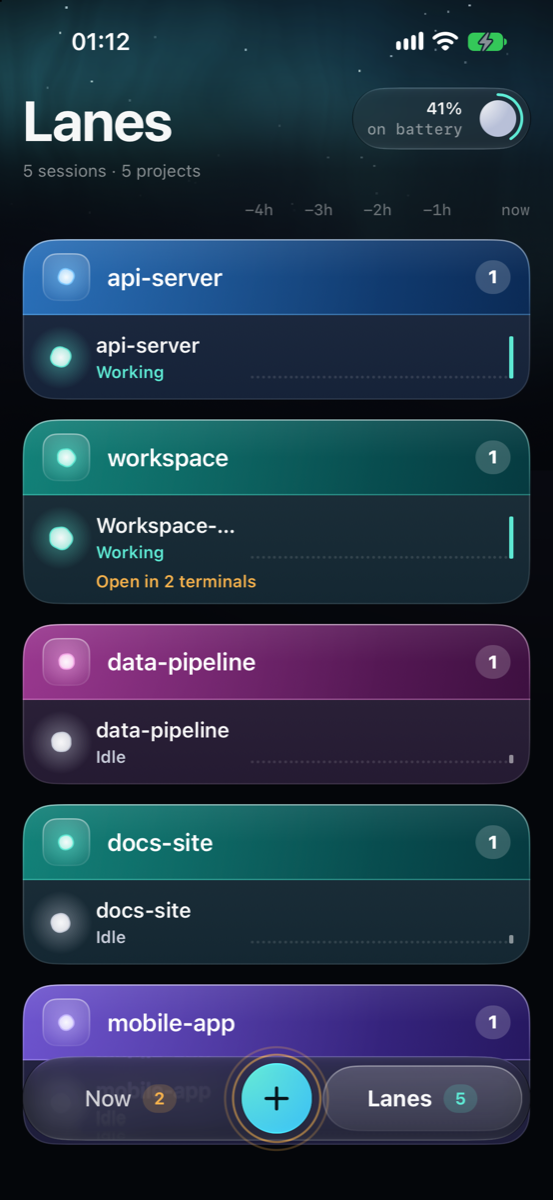
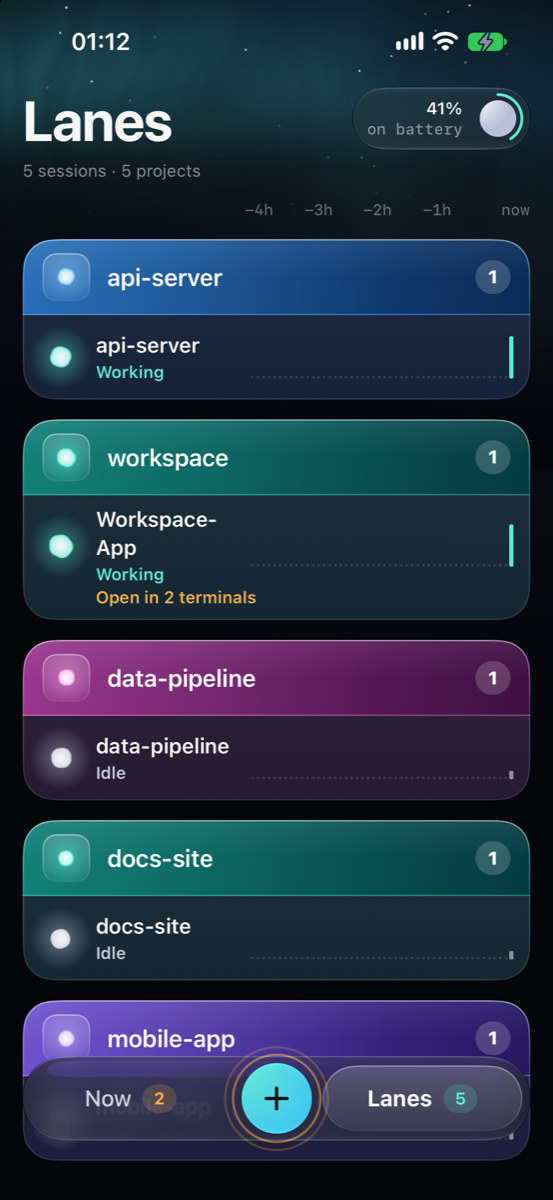
Guides: session names, one conversation in two terminals, and sessions reopened after a restart
README (panel, phone, troubleshooting, closer look), the iPhone and Android
READMEs, the roadmap and the website's Mac, iPhone and Android pages. Android
is noted as written but not yet built. The Lanes design render now shows the
wrapped title.

Changed region(s): [[0.0307, 0.4008, 0.9837, 0.925], [0.0307, 0.925, 0.953, 0.9867], [0.5226, 0.8633, 0.6763, 0.8942]]

diff --git a/README.md b/README.md
@@ -133,6 +133,10 @@ together, your phone hears from all of them.
     <td valign="top"><img src="docs/images/feature-widgets.png" alt="Widgets" width="100%"><br><b>Know before you unlock.</b> Widgets on iPhone, Android and the Mac: what needs you, what's working, how long the battery lasts.</td>
   </tr>
   <tr>
+    <td valign="top"><img src="docs/images/session-copies-iphone-room.png" alt="A session room on iPhone with an amber notice: Open in 2 terminals on your Mac" width="55%"><br><b>One conversation, two terminals: a warning.</b> When the same Claude conversation is open in two terminals, the phone says so, follows the one that's working and sends your messages there.</td>
+    <td valign="top"><img src="docs/images/session-copies-mac-card.png" alt="The menu-bar panel: a session named Workspace-App with Open in 2 terminals · close one and a Close the other button" width="55%"><br><b>Close the other, and name your sessions.</b> The Mac card offers to close the idle copy. A session you renamed shows its name, with its folder underneath.</td>
+  </tr>
+  <tr>
     <td valign="top"><img src="docs/images/feature-relay.png" alt="Page Relay, your own relay" width="100%"><br><b>Page Relay: your relay, your keys.</b> A small Worker on your own Cloudflare account carries pages and replies. Nothing goes to the authors.</td>
     <td valign="top"><img src="docs/images/feature-aura.png" alt="Page Aura working with Page Relay" width="100%"><br><b>Page Aura, paged too.</b> The chat app keeps the computer awake while it streams and pages your phone through Page Relay.</td>
   </tr>
@@ -260,8 +264,8 @@ top:
   rest. The header collapses the group to a line of names.
 
 Finished, idle and working sessions share one card:
-- the project, then the agent, model and terminal (`Claude · Opus 5.5 · cmux ›
-  payments-api`);
+- the session's name (see [Session names](#session-names)), then the agent,
+  model, terminal and folder (`Claude · Opus 5.5 · cmux › payments-api`);
 - what it's doing now, or what its last turn did;
 - the times;
 - **Open**, which brings its terminal pane forward and types nothing;
@@ -311,6 +315,47 @@ Before closing, Page Studio looks the session up again. It must still be:
 
 Otherwise the terminal stays open and the status line says why. Page Studio
 never falls back to another window and never closes a working session.
+
+#### Session names
+
+A Claude session's title is no longer always its folder. Page Studio uses the
+first of these that exists:
+
+1. a name you gave it with Claude Code's `/rename`;
+2. a cmux workspace you renamed;
+3. a tmux window you renamed;
+4. otherwise the folder name.
+
+The folder still shows underneath (the card's second line; on the phone, the
+group header or subtitle). A rename shows within about 5 seconds. Pages already
+open keep their old title. Not picked up: cmux tab and window names (cmux
+doesn't say whether you or it set them), and Terminal.app, iTerm2 and Ghostty
+tab names. Codex threads already use their own names, and Page Aura chats
+their titles.
+
+#### The same conversation open in two terminals
+
+This happens when a terminal app reopens a Claude session after a restart and
+you then type `claude --continue` in another window, which opens the same
+newest conversation. Both copies write to one transcript and each remembers
+only its own part.
+
+- **Page follows the copy that's working:** one with a prompt on screen first,
+  then one running a turn, then the most recently used. Only that copy pages
+  your phone, the phone and the Mac show its state, and messages from the
+  phone go to it.
+- **The card says so:** an amber **Open in 2 terminals · close one** and a
+  **Close the other** button. The button is there only in cmux, only while the
+  other copies are idle, and it asks first. It never closes a working copy.
+- **Your phone says so:** Lanes and the In-flight card show **Open in 2
+  terminals**, and the session screen shows a notice.
+- **A notification** "<name> is open twice" appears once when it happens.
+- **A reply to a page is refused** with "This conversation moved to another
+  terminal — check it on your Mac" if the conversation's working copy changed
+  since the page opened.
+
+Better still, don't run `claude --continue` in a folder whose conversation is
+already open. Switch to that window instead.
 
 ### Alerts beyond "it needs you"
 
@@ -484,6 +529,10 @@ How a pause is delivered depends on the terminal:
 Approvals and questions page at once. Idle and rate-limit pages wait until
 you've stepped away. Budget pages are sent at once.
 
+A session reopened after a restart (cmux's auto-resume, `claude --resume` or
+`--continue`) doesn't page idle until it has finished a turn of its own in that
+run. It still appears in the sessions list, because it really is running.
+
 A session has one current page. A newer page replaces the older one, and
 resolving one at the Mac clears its card from the phone. The phone shows
 whether each reply was **delivered**, **queued** (the Mac is offline) or
@@ -590,6 +639,14 @@ at any time, not only when a page is open.
   presses Esc in a working session (tmux, iTerm2, cmux).
 - **Speak instead of type.** Every message box has a mic: see
   [Speak instead of type](#speak-instead-of-type).
+- **Names.** A session shows the name you gave it (Claude Code's `/rename`, a
+  renamed cmux workspace or tmux window), otherwise its folder. The folder
+  stays on the subtitle or group header, and a long title wraps onto a second
+  line in Lanes on the iPhone. See [Session names](#session-names).
+- **One conversation in two terminals.** Lanes and the In-flight card show an
+  amber **Open in N terminals**, and the session screen explains it. The phone
+  follows the copy that's working, and messages from the phone go to it. See
+  [The same conversation open in two terminals](#the-same-conversation-open-in-two-terminals).
 - **New session.** The **+** on the Sessions tab starts a new Claude
   session on the Mac: pick one of the folders Claude has worked in during
   the last 30 days, type what it should do, and Page Studio opens a cmux workspace
@@ -941,7 +998,7 @@ Apply hand edits with **Reload Config** in the menu.
 | `relayEnabled` | `false` | Master switch for phone pages and replies |
 | `relayURL` | placeholder (`https://your-page-relay.workers.dev`, treated as unset) | Your Worker's https base URL. ws/wss and a trailing `/ws` are normalised; http only for localhost |
 | `interventionDetectionEnabled` | `true` | Detect approvals, questions and idle sessions and page them |
-| `idlePageDelaySeconds` | `60` (0–3600) | How long a session must sit idle (turn finished, nothing typed) before it pages |
+| `idlePageDelaySeconds` | `60` (0–3600) | How long a session must sit idle (turn finished, nothing typed) before it pages. A session reopened after a restart waits until it has finished a turn of its own |
 | `idlePageOnlyWhenAwaySeconds` | `120` (0–3600) | Hold idle and rate-limit pages while you've used the Mac within this many seconds. `0` disables the check. Approvals and questions always page |
 | `holdAwakeForPendingPageMinutes` | `60` (0–1440) | Keep the Mac awake this long while a page waits for a reply (relay on only). `0` = don't hold |
 | `headlessResumeFallbackEnabled` | `true` | When the session's process has exited, deliver a text reply with `claude --resume --print` / `codex exec resume`. Never used while the session is still running |
@@ -1215,6 +1272,9 @@ travel, so "nothing leaves your devices" isn't true. What leaves your devices:
 | A session I put away came back | It started a new turn, or a new page opened for it. Putting a session away lasts until its next turn |
 | The mic says microphone access is off | iPhone: Settings ▸ Page ▸ Microphone and Speech Recognition. Android: Settings ▸ Apps ▸ Page ▸ Permissions ▸ Microphone. Mac: System Settings ▸ Privacy & Security ▸ Microphone and Speech Recognition (a new build of Page Studio can be asked again) |
 | The mic says it can't turn speech into text | No recognizer on the device handles its language. Try the device's language set to one it supports, or on Android install a speech service (Speech Services by Google) |
+| A session shows twice, or the phone says "Open in 2 terminals" | One Claude conversation is open in two terminals, for example a terminal app reopened it after a restart and `claude --continue` was typed in another window. Close the one you're not using. In cmux, **Close the other** on the Mac card does it when the other copy is idle. Page follows the copy that's working, and a reply to an older page is refused with "This conversation moved to another terminal". See [the same conversation open in two terminals](#the-same-conversation-open-in-two-terminals) |
+| Old sessions appear after a restart | cmux's auto-resume, `claude --resume` and `--continue` reopen sessions, and they do show in the list because they're running. They don't page idle until they've finished a turn of their own in that run |
+| A session shows its folder name, not the one I gave it | Page picks up a name from Claude Code's `/rename`, a renamed cmux workspace or a renamed tmux window, within about 5 seconds. Not cmux tab or window names, nor Terminal.app, iTerm2 or Ghostty tab names. Pages already open keep their old title. See [Session names](#session-names) |
 | I put a session away but its tab stayed open | The status line says why. Common reasons: the setting is off (Preferences ▸ Terminals), the tab shares a Terminal.app window, the session was used again within the 5 seconds, or macOS needs Automation permission for Terminal or iTerm2 |
 
 Logs:

diff --git a/docs/ROADMAP.md b/docs/ROADMAP.md
@@ -70,6 +70,9 @@ rather than infers.
 | Project budgets: a share of the weekly Claude limit per project or session, warn at 80%, stop at 100% (Esc, the `PreToolUse` budget gate, a page with Raise / Let this turn finish), set from Page Studio, the menu bar and both phones | Done |
 | Budgets on Linux (usage tracking and `paged config set` for budgets, the gate shipped by `install-linux.sh`) and for Codex (a different plan, and no hook that can stop a tool call) | Not started |
 | Mac menu-bar panel: every session (finished, in flight, idle) on one card style; swipe, × or ⌫ to put a finished session away until its next turn; optionally close its exact terminal tab | Done |
+| One conversation open in two terminals: Page follows the copy that's working, the iPhone and the Mac card warn, a notification, and **Close the other** in cmux. Android is written the same way, not yet built | Done |
+| Sessions reopened after a restart don't page idle until they finish a turn of their own | Done |
+| Session names from Claude Code's `/rename`, a renamed cmux workspace or a renamed tmux window | Done |
 | The same idle list and dismiss on the phones | Not started |
 | Voice input: a mic in every message box on iPhone and Android and in the Mac's Steer boxes; on-device speech-to-text first (SpeechAnalyzer / SFSpeechRecognizer, `createOnDeviceSpeechRecognizer`), the platform's speech service as fallback; never sends by voice | Done |
 | Voice input on Linux (`paged`) | Not started |

diff --git a/iOS/README.md b/iOS/README.md
@@ -206,6 +206,20 @@ time, not only when it pages you. The wire contract is
 - **Stop** appears while a session is working and its terminal supports it.
   After a confirmation it presses Esc in the session.
 - The reply screen shows **Open session** when the page's session is live.
+- **Titles.** A Claude session shows the name you gave it (Claude Code's
+  `/rename`, a renamed cmux workspace or tmux window), otherwise its folder,
+  which stays on the group header and subtitle. A long title wraps onto a
+  second line in Lanes. A rename shows within about 5 seconds; see
+  [Session names](../README.md#session-names).
+- **Open in N terminals.** When one conversation is open in more than one
+  terminal on the Mac, its Lanes row and In-flight card show an amber **Open in
+  N terminals**, and the session screen shows a notice: "Open in 2 terminals on
+  your Mac. Both write to this conversation and each remembers only its own
+  part. Close the one you're not using. Messages from here go to the one
+  that's working." The row shows the copy that's working, and a reply to a page
+  from another copy is refused with "This conversation moved to another
+  terminal — check it on your Mac". The wire field is `copies`
+  ([SESSIONS-PROTOCOL.md](../docs/SESSIONS-PROTOCOL.md) §4).
 
 ### Speak instead of type
 

diff --git a/android/README.md b/android/README.md
@@ -186,6 +186,15 @@ While the Mac is still measuring the week, a project's (or session's) row says
 (plain `Measuring…` without it), and draws no bar. Render it with
 `tools/screens.sh -- tower-budget-measuring now-budget-measuring`.
 
+## Session titles and copies
+
+The same two changes as iOS (see the [iPhone README](../iOS/README.md#sessions-tab) and the main README's
+[Session names](../README.md#session-names)): a Claude session shows the name you gave it (`/rename`, a renamed
+cmux workspace or tmux window) with its folder underneath, and a conversation open in more than one terminal on
+the Mac shows an amber "Open in N terminals" on its Lanes row and In-flight card, plus a notice in the Room. The
+row follows the copy that's working and messages go to it. At the time of writing these Android changes are
+written but not yet built or rendered.
+
 ## Speak instead of type
 
 As on iOS (see [`iOS/README.md`](../iOS/README.md#speak-instead-of-type)): the

diff --git a/docs/images/src/README.md b/docs/images/src/README.md
@@ -12,6 +12,9 @@ Each image is an HTML composition shot by headless Chromium. Nothing opens a win
 | `family.html` | `family.png` / `family.webp` 2400×1500 (brochure cover, website overview) |
 | `screen-lock.html` | `out/screen-lock.png` 782×1690, the lock-screen board with the Page Relay name, for `website/scripts/product-shots.py` (`power/lock`) |
 
+`session-copies-iphone-room.png` and `session-copies-mac-card.png` (in `docs/images/` only) aren't compositions: they are the
+approved renders from `Designs/session-copies/` (and the Mac card with a renamed session), downscaled with `sips -Z 1200`.
+
 `base.css` holds the Night Watch tokens, the drawn device frames (generic, with no vendor marks) and the lock-screen
 overlay. `sky.js` draws the seeded star field and aurora. The fonts are Inter and JetBrains Mono (OFL, in `fonts/`).
 
